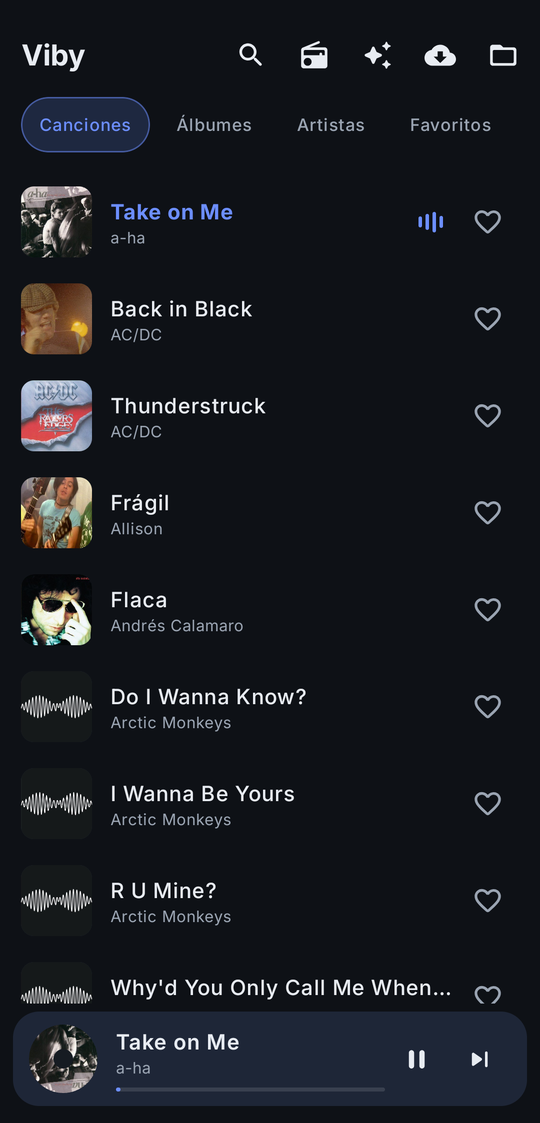
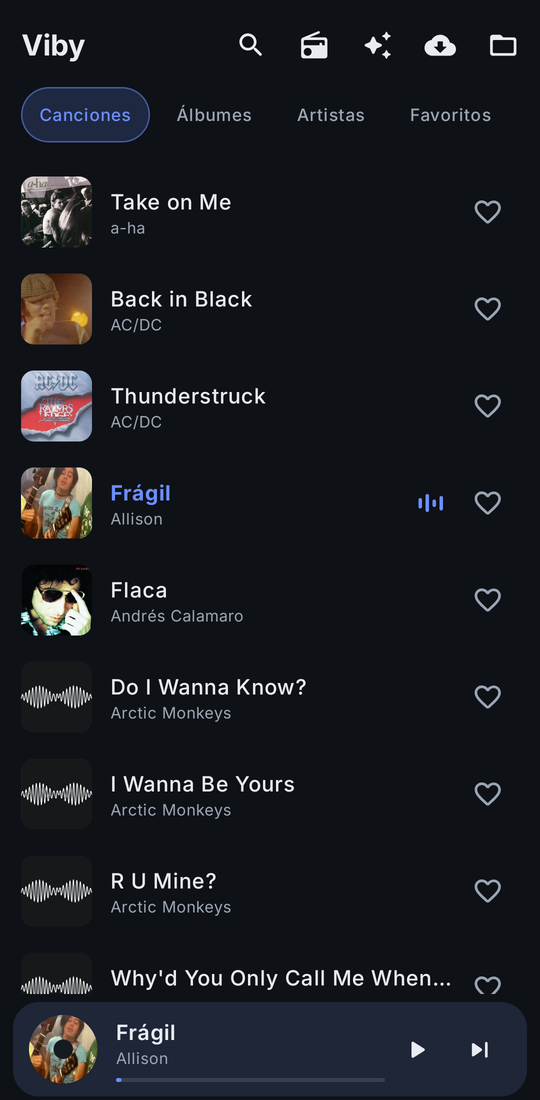
Renovar las capturas del README
Las que había eran de la 1.5 y no enseñaban ni el reproductor nuevo ni los
artistas con foto. Se añade una cuarta captura de la lista de artistas, que
es lo que más cambió.

Van recortadas sin barra de estado ni de navegación, como las anteriores.

diff --git a/README.md b/README.md
@@ -7,9 +7,9 @@ descubrir y descargar canciones nuevas desde la propia app.
 
 > Proyecto personal. Uso sideload (no Play Store).
 
-| Biblioteca | Radio | Reproduciendo |
-|:---:|:---:|:---:|
-| ![Biblioteca](docs/capturas/biblioteca.png) | ![Radio](docs/capturas/radio.png) | ![Reproduciendo](docs/capturas/reproduciendo.png) |
+| Biblioteca | Artistas | Reproduciendo | Radio |
+|:---:|:---:|:---:|:---:|
+| ![Biblioteca](docs/capturas/biblioteca.png) | ![Artistas](docs/capturas/artistas.png) | ![Reproduciendo](docs/capturas/reproduciendo.png) | ![Radio](docs/capturas/radio.png) |
 
 ## Qué hace
 
@@ -20,11 +20,19 @@ descubrir y descargar canciones nuevas desde la propia app.
   selector de salida de audio del sistema.
 - **Navegación por pestañas** en la cabecera: Canciones · Álbumes · Artistas · Favoritos.
   La canción en curso se marca con barras de nivel animadas, que se congelan al pausar.
+- **Artistas con foto**, descargada una sola vez y guardada como `artist.jpg` en la
+  carpeta del artista: sobrevive a reinstalar la app y viaja con la música. Los nombres
+  se unifican (mayúsculas, acentos, artículo inicial) y las colaboraciones cuentan para
+  los dos, sin partir a grupos como AC/DC o Earth, Wind & Fire. Para los que son el
+  mismo y no hay forma de deducirlo del nombre (Panda y PXNDX), se mantiene pulsado un
+  artista y se elige con cuál unirlo.
 - **Notificación y pantalla bloqueada** con carátula (Media3 / ExoPlayer).
 - **Ecualizador** integrado.
 - **Reanuda** donde te quedaste y recuerda aleatorio/repetir.
 - **Mini reproductor** con la carátula como disco que gira mientras suena y se detiene al pausar.
-- **Descargas** integradas (NewPipeExtractor): busca, escucha un preview, descarga a
+- **Descargas** integradas (NewPipeExtractor): busca, escucha un preview —que suena en
+  el reproductor de verdad, así que sigue al salir de la pantalla y sale en la
+  notificación—, descarga a
   `Artista/Álbum/Título.m4a` con tags ID3 + carátula (enriquecido con MusicBrainz),
   en segundo plano con notificación de progreso y sin duplicados.
 - **Descubrir**: recomendaciones de música nueva basadas en tu biblioteca.
@@ -38,7 +46,7 @@ descubrir y descargar canciones nuevas desde la propia app.
 
 Kotlin · Jetpack Compose (Material 3) · Media3/ExoPlayer · Coil · Glance (widget) ·
 Palette (color desde la carátula) · NewPipeExtractor · jaudiotagger · MusicBrainz ·
-Radio Browser · iTunes Search (carátulas de radio) · minSdk 26 · targetSdk 36.
+Radio Browser · iTunes Search (carátulas de radio y fotos de artista) · minSdk 26 · targetSdk 36.
 
 ## Compilar
 
